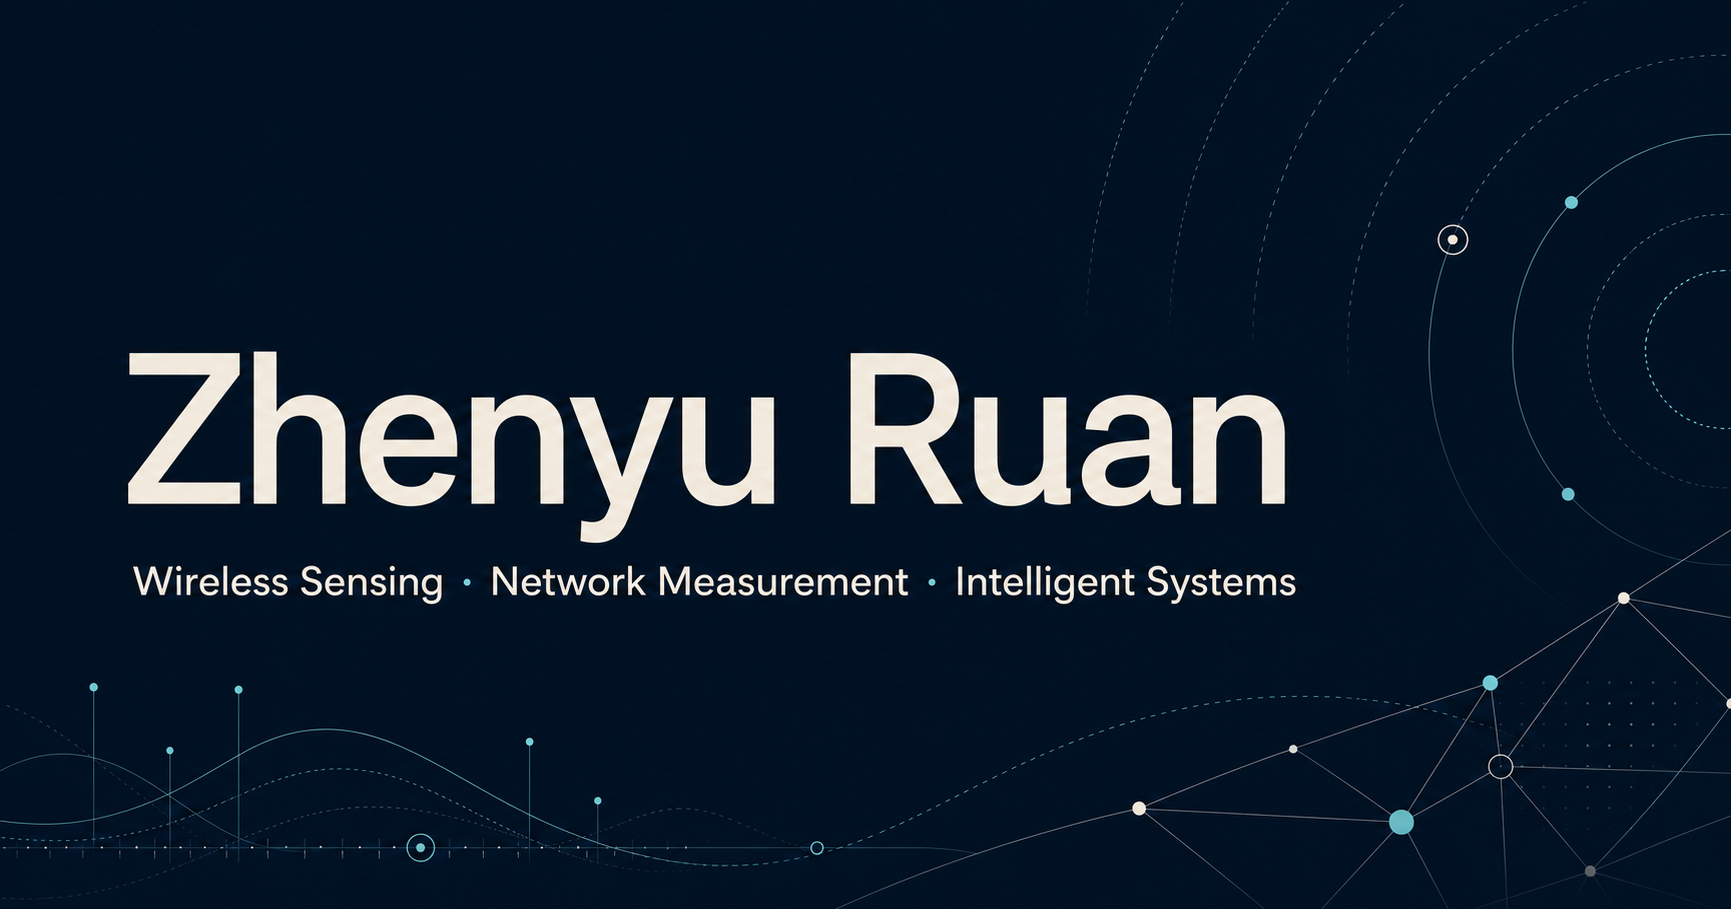
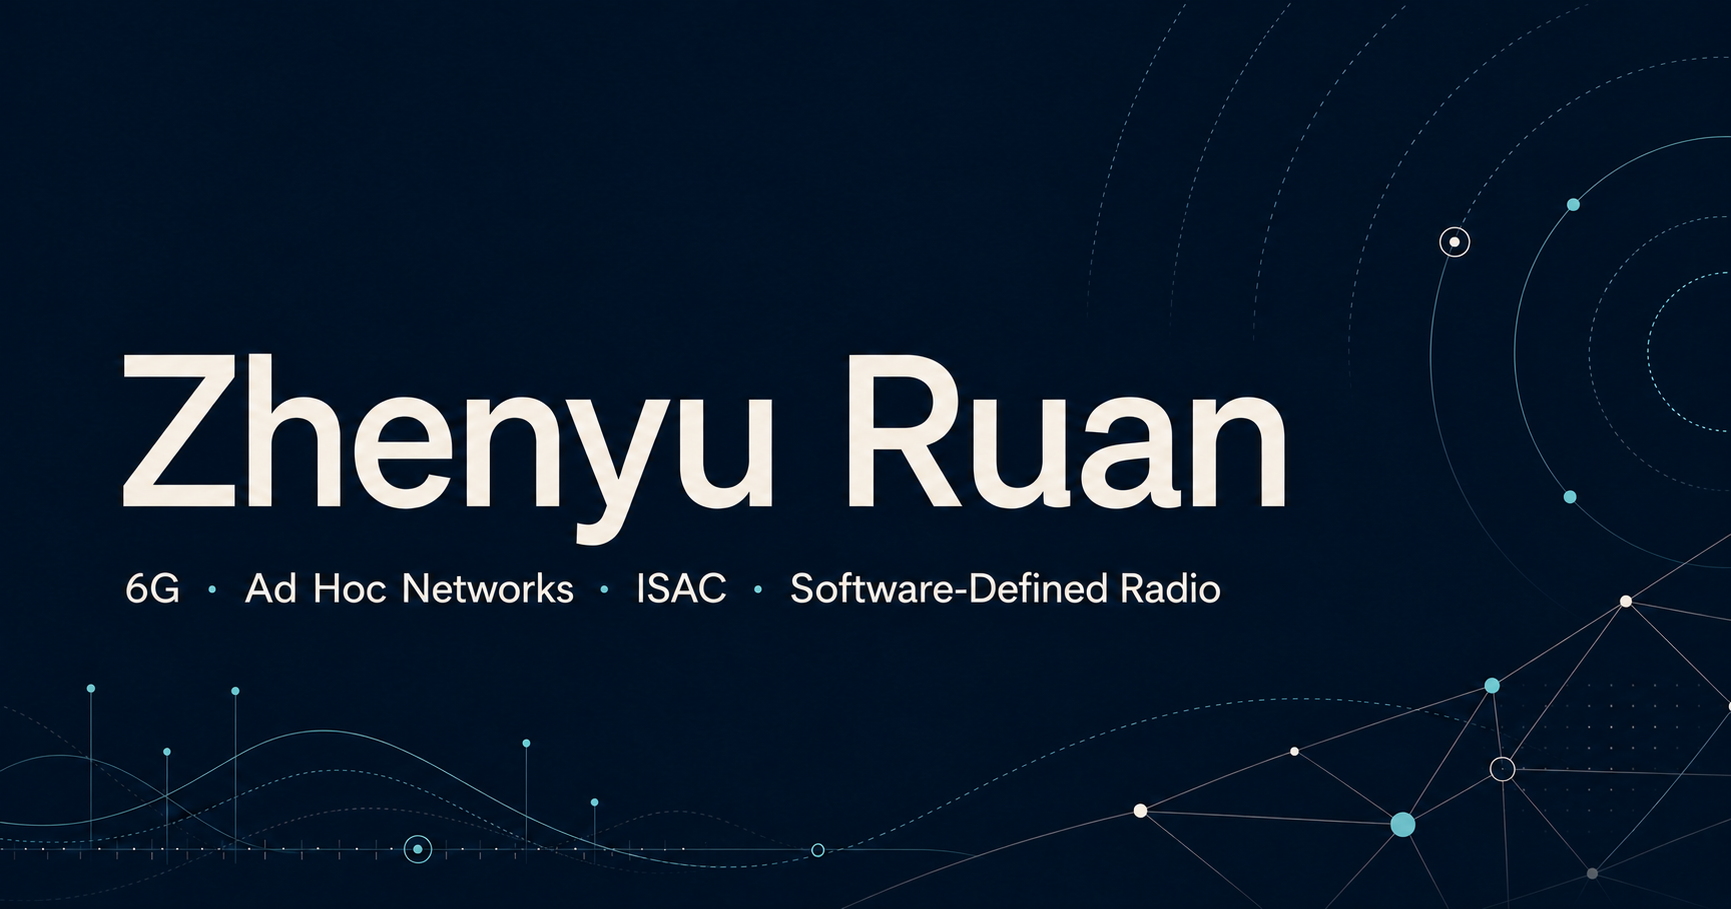
Refocus research profile on 6G systems

diff --git a/index.html b/index.html
@@ -6,18 +6,18 @@
     <meta name="theme-color" content="#07131f" />
     <meta
       name="description"
-      content="Academic homepage of Zhenyu Ruan — wireless sensing, mobile network measurement, and intelligent systems."
+      content="Academic homepage of Zhenyu Ruan — 6G, ad hoc networks, integrated sensing and communication, and software-defined radio."
     />
     <meta property="og:type" content="website" />
     <meta property="og:url" content="https://shr-sky.github.io/" />
-    <meta property="og:title" content="Zhenyu Ruan — Wireless Sensing Research" />
-    <meta property="og:description" content="Wireless sensing, mobile network measurement, and intelligent systems." />
+    <meta property="og:title" content="Zhenyu Ruan — 6G Wireless Systems Research" />
+    <meta property="og:description" content="6G, ad hoc networks, integrated sensing and communication, and software-defined radio." />
     <meta property="og:image" content="https://shr-sky.github.io/assets/og.png" />
     <meta name="twitter:card" content="summary_large_image" />
-    <meta name="twitter:title" content="Zhenyu Ruan — Wireless Sensing Research" />
-    <meta name="twitter:description" content="Wireless sensing, mobile network measurement, and intelligent systems." />
+    <meta name="twitter:title" content="Zhenyu Ruan — 6G Wireless Systems Research" />
+    <meta name="twitter:description" content="6G, ad hoc networks, integrated sensing and communication, and software-defined radio." />
     <meta name="twitter:image" content="https://shr-sky.github.io/assets/og.png" />
-    <title>Zhenyu Ruan — Wireless Sensing Research</title>
+    <title>Zhenyu Ruan — 6G Wireless Systems Research</title>
     <link rel="preconnect" href="https://fonts.googleapis.com" />
     <link rel="preconnect" href="https://fonts.gstatic.com" crossorigin />
     <link
@@ -40,10 +40,10 @@
     <main id="top">
       <section class="hero" aria-labelledby="hero-title">
         <div class="hero-copy">
-          <p class="eyebrow"><span></span> Wireless intelligence, grounded in the real world</p>
+          <p class="eyebrow"><span></span> Towards intelligent, sensing-native 6G</p>
           <h1 id="hero-title">Zhenyu<br /><em>Ruan</em></h1>
           <p class="hero-intro">
-            I study how ubiquitous radio signals can become precise, practical instruments for sensing people and understanding networks.
+            I explore the foundations of future wireless systems—from self-organizing networks and integrated sensing to software-defined radio platforms.
           </p>
           <div class="hero-actions">
             <a class="button button-primary" href="#research">Explore my research <span>↓</span></a>
@@ -59,7 +59,7 @@
           </div>
           <div class="signal-card">
             <span class="signal-icon" aria-hidden="true"><i></i><i></i><i></i></span>
-            <div><strong>Research focus</strong><small>Signals · Sensing · Systems</small></div>
+            <div><strong>Research focus</strong><small>6G · ISAC · SDR</small></div>
           </div>
           <p class="affiliation">Huazhong University of<br />Science and Technology</p>
         </div>
@@ -71,33 +71,41 @@
           <h2 id="research-heading">Turning radio waves into<br /><em>meaningful evidence.</em></h2>
         </div>
         <p>
-          My work spans wireless sensing and mobile network measurement, with an emphasis on model-driven methods that remain lightweight, interpretable, and deployable on real hardware.
+          My research centers on 6G wireless systems, spanning ad hoc networking, integrated sensing and communication, and software-defined radio—with an emphasis on ideas that can be tested on real platforms.
         </p>
       </section>
 
       <section class="research-grid" aria-label="Research themes">
         <article class="research-card research-card-featured">
-          <div class="card-topline"><span>Theme 01</span><span>BFI / Wi-Fi</span></div>
+          <div class="card-topline"><span>Theme 01</span><span>Beyond 5G</span></div>
           <div class="wave-field" aria-hidden="true"><i></i><i></i><i></i><i></i><i></i></div>
           <div class="card-copy">
-            <h3>Wireless<br />Sensing</h3>
-            <p>Extracting human presence and motion from standard Wi-Fi beamforming feedback—without dedicated sensors or raw CSI access.</p>
+            <h3>6G Wireless<br />Systems</h3>
+            <p>Investigating intelligent, sensing-native, and adaptive wireless architectures for the next generation of connected systems.</p>
           </div>
         </article>
         <article class="research-card">
-          <div class="card-topline"><span>Theme 02</span><span>4G / 5G</span></div>
+          <div class="card-topline"><span>Theme 02</span><span>Self-organizing</span></div>
           <div class="map-motif" aria-hidden="true"><span></span><span></span><span></span><span></span></div>
           <div class="card-copy">
-            <h3>Network<br />Measurement</h3>
-            <p>Designing portable, multi-operator systems that bind cellular signal measurements to time and location for reliable coverage mapping.</p>
+            <h3>Ad Hoc<br />Networks</h3>
+            <p>Studying decentralized networking, dynamic topology, and resilient coordination where infrastructure is limited or unavailable.</p>
           </div>
         </article>
         <article class="research-card">
-          <div class="card-topline"><span>Theme 03</span><span>Models / Systems</span></div>
+          <div class="card-topline"><span>Theme 03</span><span>Communication + Sensing</span></div>
           <div class="matrix-motif" aria-hidden="true"></div>
           <div class="card-copy">
-            <h3>Intelligent<br />Systems</h3>
-            <p>Combining physical models, statistical inference, embedded platforms, and real-world experiments to build practical intelligent systems.</p>
+            <h3>Integrated Sensing<br />&amp; Communication</h3>
+            <p>Turning communication waveforms and feedback into sensing capabilities while jointly reasoning about both system objectives.</p>
+          </div>
+        </article>
+        <article class="research-card research-card-sdr">
+          <div class="card-topline"><span>Theme 04</span><span>Programmable radio</span></div>
+          <div class="sdr-motif" aria-hidden="true"><span></span><span></span><span></span></div>
+          <div class="card-copy">
+            <h3>Software-Defined<br />Radio</h3>
+            <p>Building flexible radio platforms that bring signal-processing ideas out of simulation and into reproducible over-the-air experiments.</p>
           </div>
         </article>
       </section>
@@ -111,14 +119,14 @@
           <h2 id="about-heading">Curiosity, made<br /><em>measurable.</em></h2>
           <div class="about-columns">
             <p>
-              I am a researcher at the School of Electronic Information and Communications, Huazhong University of Science and Technology. My interests sit at the intersection of wireless communication, sensing, statistical signal processing, and embedded systems.
+              I am a researcher at the School of Electronic Information and Communications, Huazhong University of Science and Technology. My work is focused on 6G and the convergence of communication, sensing, networking, and programmable radio.
             </p>
             <p>
-              I care about methods that work beyond controlled demonstrations: algorithms informed by physical structure, systems built on accessible hardware, and experiments that reveal how technology behaves in the world.
+              Across ad hoc networks, integrated sensing and communication, and software-defined radio, I care about methods that work beyond controlled demonstrations—grounded in physical structure and validated through real experiments.
             </p>
           </div>
           <div class="interest-list" aria-label="Research interests">
-            <span>Wireless sensing</span><span>Signal processing</span><span>Network measurement</span><span>Embedded systems</span>
+            <span>6G</span><span>Ad hoc networks</span><span>Integrated sensing &amp; communication</span><span>Software-defined radio</span>
           </div>
         </div>
       </section>

diff --git a/styles.css b/styles.css
@@ -131,7 +131,7 @@ h2 { margin: 0; font: 600 clamp(44px, 5.4vw, 78px)/1.04 var(--serif); letter-spa
 .research-grid {
   padding: 0 5vw 130px;
   display: grid;
-  grid-template-columns: repeat(3, 1fr);
+  grid-template-columns: repeat(2, 1fr);
   gap: 1px;
   color: var(--ink);
   background: var(--paper);
@@ -163,6 +163,12 @@ h2 { margin: 0; font: 600 clamp(44px, 5.4vw, 78px)/1.04 var(--serif); letter-spa
 .map-motif span:nth-child(1) { left: 12%; top: 55%; }.map-motif span:nth-child(2) { left: 45%; top: 18%; }.map-motif span:nth-child(3) { right: 16%; top: 48%; }.map-motif span:nth-child(4) { left: 56%; bottom: 6%; }
 .matrix-motif { position: absolute; top: 85px; left: 50%; width: 190px; height: 190px; transform: translateX(-50%) rotate(45deg); background: repeating-linear-gradient(0deg, transparent 0 22px, rgba(86,124,158,.22) 22px 23px), repeating-linear-gradient(90deg, transparent 0 22px, rgba(86,124,158,.22) 22px 23px); }
 .matrix-motif::before { content: ""; position: absolute; inset: 22px 88px; background: var(--cyan); box-shadow: 66px 44px 0 var(--blue), -44px 110px 0 var(--blue); opacity: .8; }
+.research-card-sdr { color: var(--paper); background: #102738; border-color: #102738; }
+.sdr-motif { position: absolute; inset: 80px 35px auto; height: 220px; display: flex; align-items: center; justify-content: center; gap: 10px; opacity: .65; }
+.sdr-motif::before, .sdr-motif::after { content: ""; position: absolute; left: 0; right: 0; height: 1px; background: rgba(143,205,209,.24); }
+.sdr-motif::before { top: 28%; }.sdr-motif::after { bottom: 28%; }
+.sdr-motif span { width: 7px; border-radius: 4px; background: var(--cyan); box-shadow: 0 0 18px rgba(143,205,209,.25); }
+.sdr-motif span:nth-child(1) { height: 58px; }.sdr-motif span:nth-child(2) { height: 155px; }.sdr-motif span:nth-child(3) { height: 95px; }
 
 .about {
   padding: 130px 8vw;
